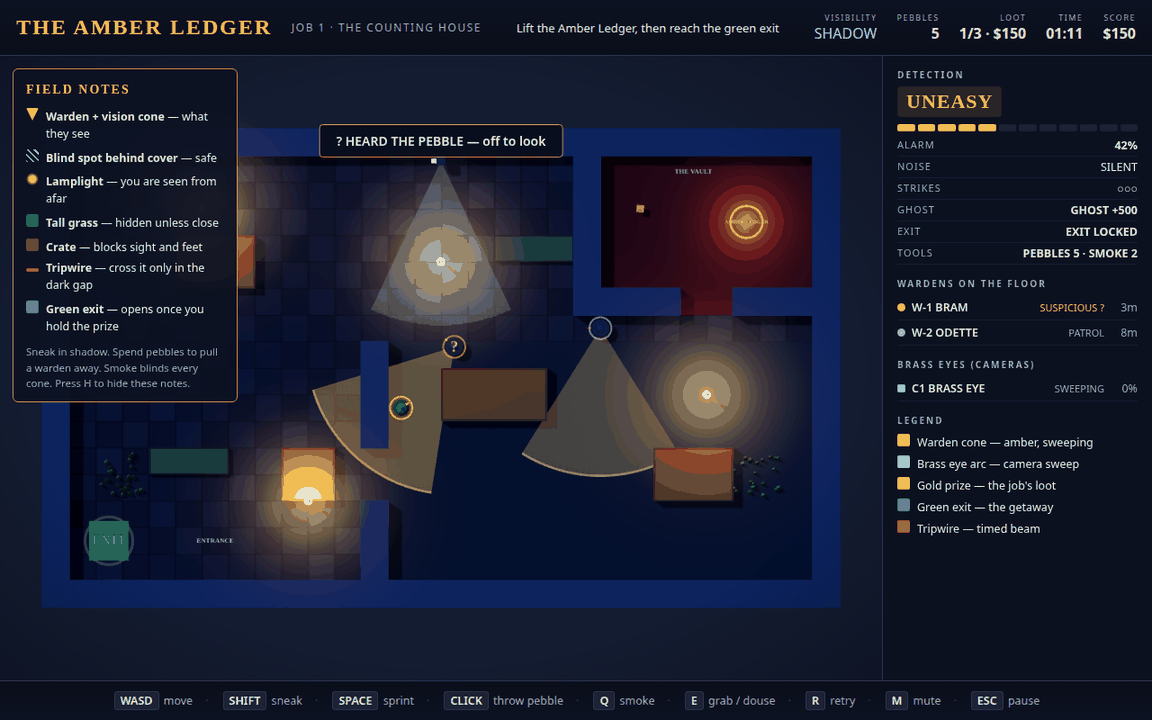
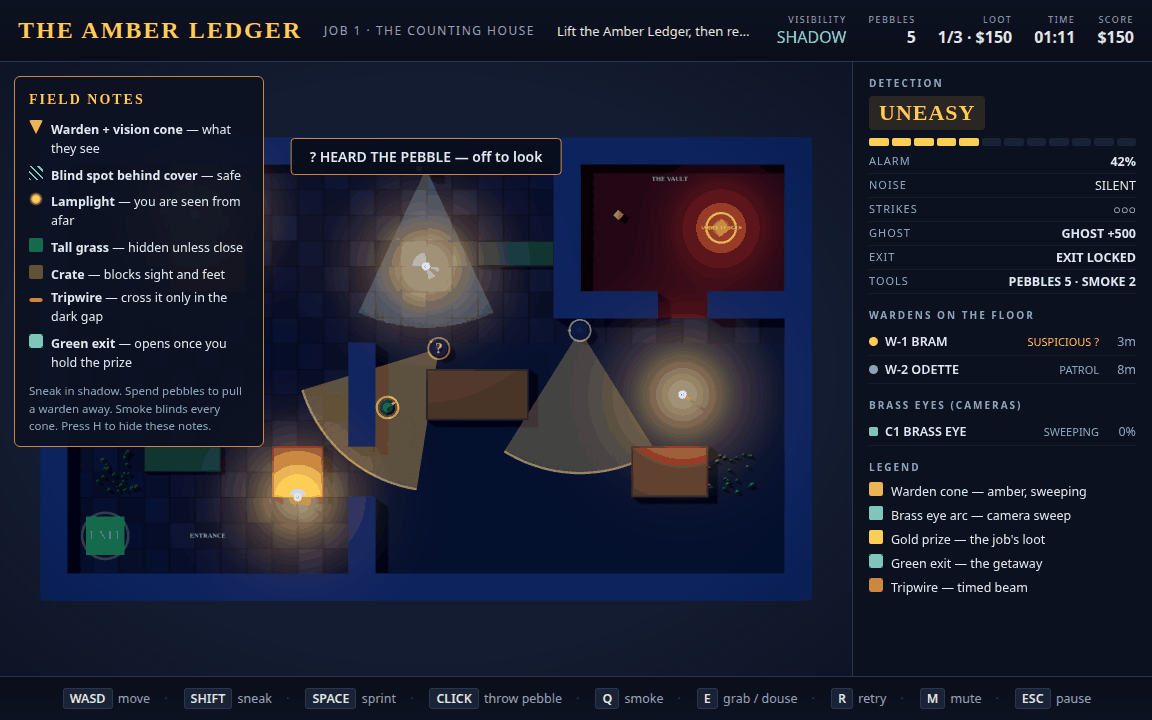
THE AMBER LEDGER: warden patrols clear the vault door and exit, scripted win path passes

Changed region(s): [[0.0, 0.0, 1.0, 0.8556], [0.0312, 0.9167, 0.9375, 1.0], [0.1562, 0.7333, 0.2188, 0.7639]]

diff --git a/game/src/levels.js b/game/src/levels.js
@@ -140,11 +140,18 @@ const JOB1 = {
   guards: [
     {
       name: 'W-1 BRAM', x: 8, y: 9, angle: 0, pause: 1.4, speed: 2.1,
-      waypoints: [[8, 9], [16, 8], [16, 13], [8, 13]],
+      // East waypoint pulled 2 tiles north of the counting tables: the
+      // warden no longer pauses on the thief's route into the vault.
+      waypoints: [[8, 9], [16, 8], [16, 11], [8, 13]],
     },
     {
       name: 'W-2 ODETTE', x: 18, y: 3, angle: Math.PI / 2, pause: 1.8, speed: 2.0,
-      waypoints: [[18, 3], [18, 12], [24, 10], [24, 8]],
+      // Door waypoints sit 2 tiles west of the vault door (x 24): the
+      // warden still covers the east hall, but no longer pauses on the
+      // door itself, so the thief gets a fair timing window to slip in.
+      // The east loop runs along the south wall (y 15) instead of the
+      // exit corridor (y 10-12), so the way out stays open too.
+      waypoints: [[18, 3], [18, 12], [23, 15], [20, 15]],
     },
   ],
   cameras: [

diff --git a/game/src/selftest.js b/game/src/selftest.js
@@ -244,7 +244,12 @@ async function testWin(game, input) {
   await grabHere(game, input, 1.2); // the grab channel is 0.8s; no need to linger in the light
   if (!game.level.loot.taken) return 'SELFTEST-WIN-FAIL loot-not-taken';
   const route3 = [
-    [25, 7.2], [24, 10], [18, 12], [10, 14], [2.5, 15.5], // the green exit
+    [25, 7.2], [24, 10], [18, 12], [10, 15], [2.5, 15.5], // the green exit
+    // (10, 15), not (10, 14): the old staging point sits on the counting
+    // tables' south edge (crate x 9..11, y 12..14) and the thief's 0.32
+    // collision radius holds it at y 14.32, 0.377 from the target — outside
+    // the 0.35 arrival radius, so the leg timed out forever. (10, 15) is
+    // clear and the west run to the exit is unchanged.
   ];
   for (const [x, y] of route3) {
     const r = await walkTo(game, input, x, y, 60);
